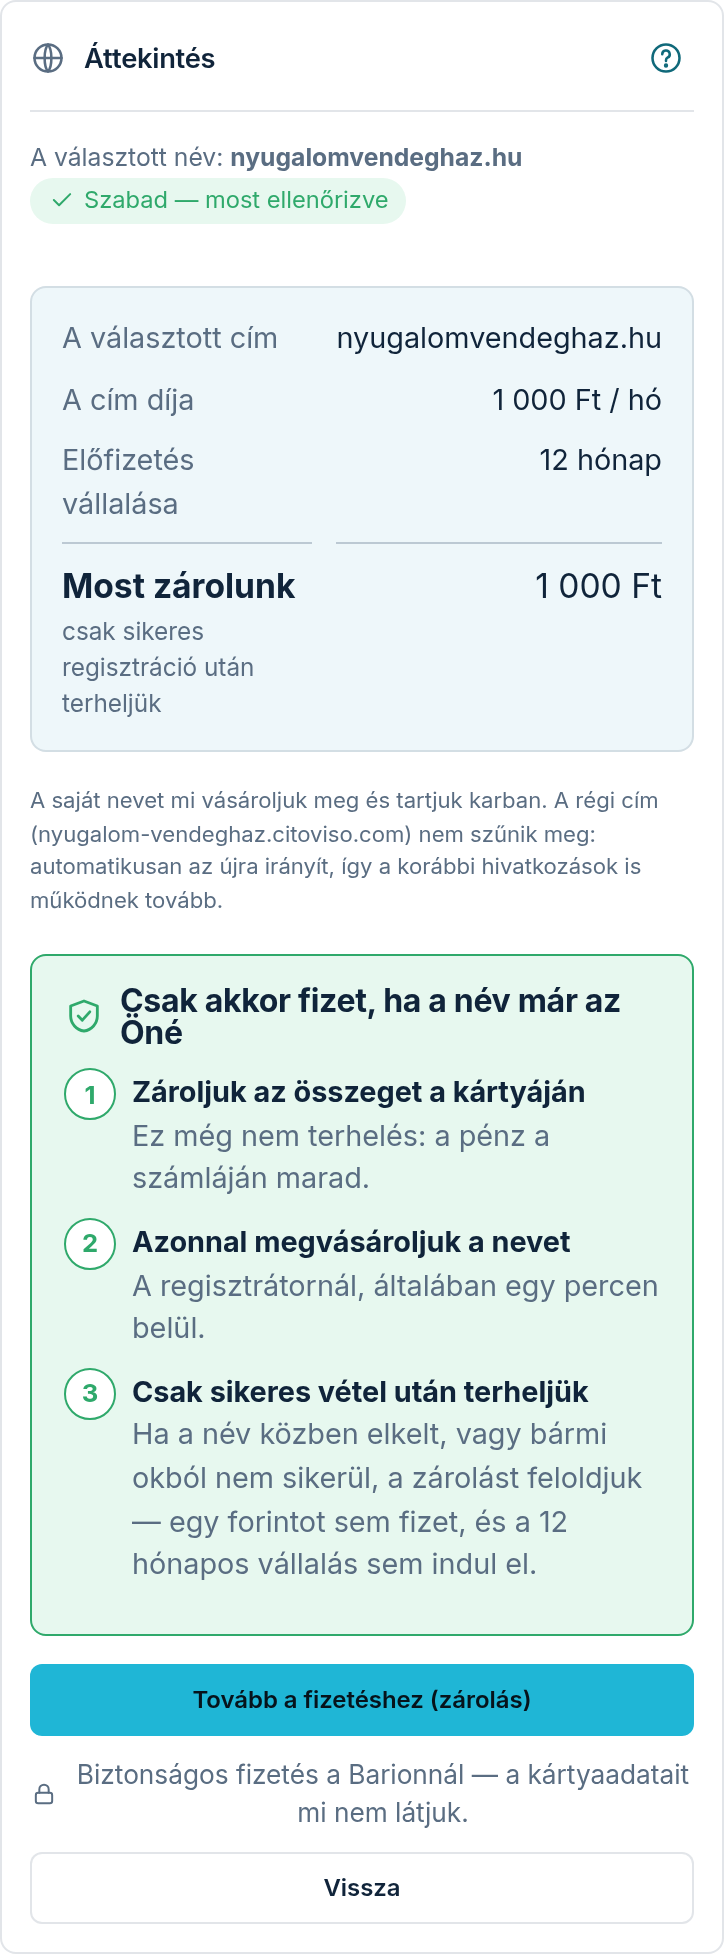
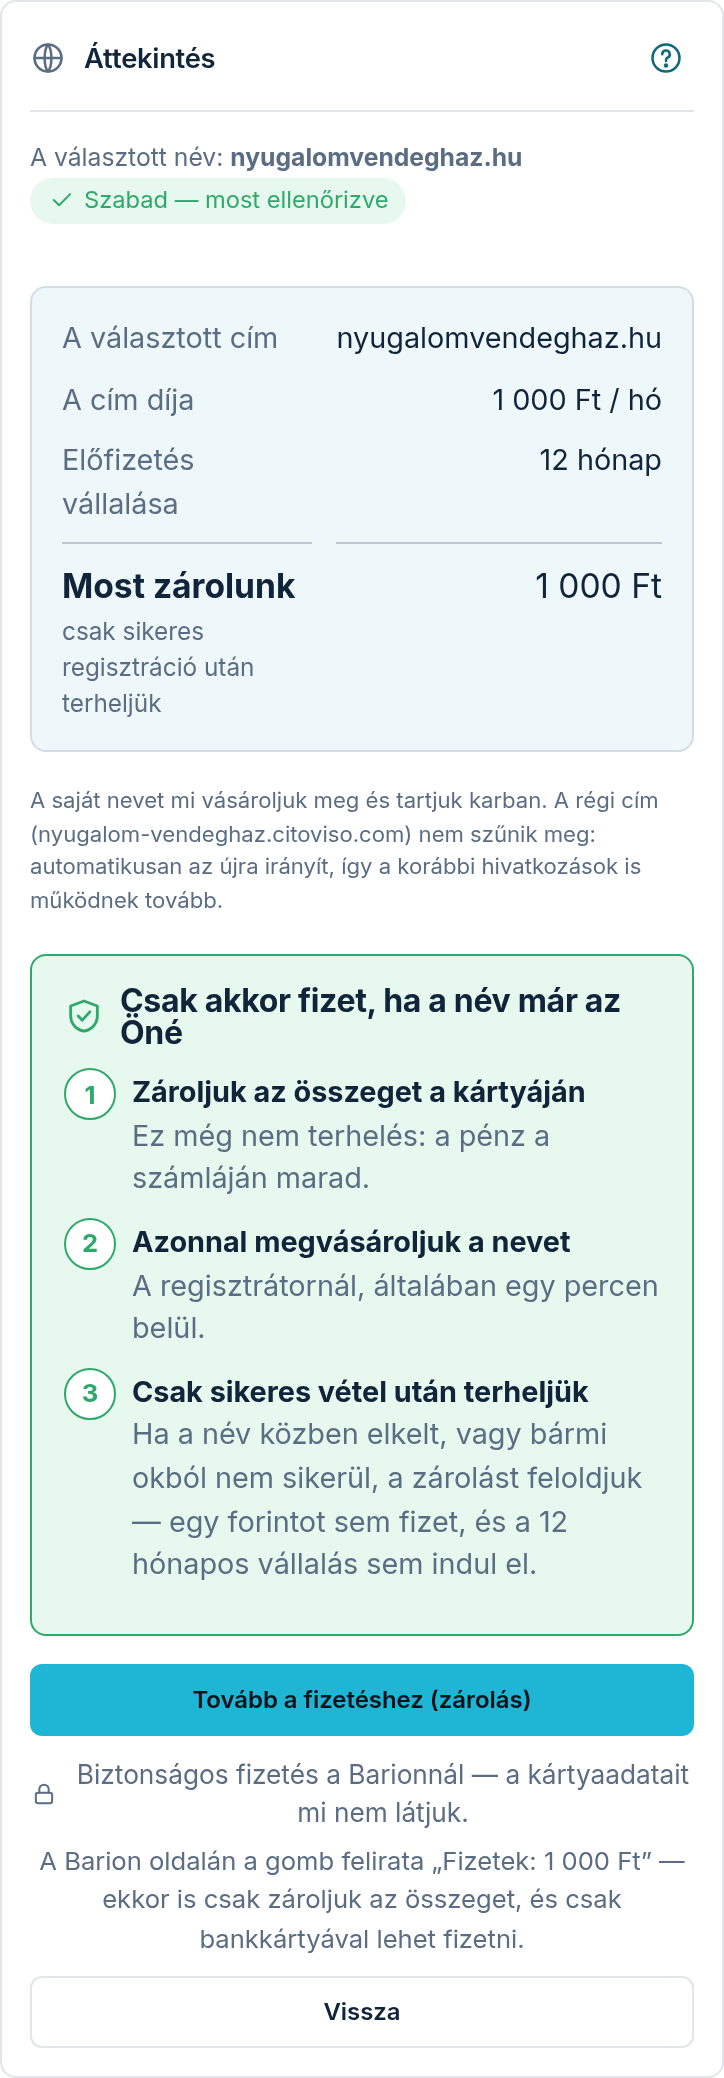
feat(webcím): „Fizetek” mondat + hiteles jelölő a lead-konfigurátorban is (ADR-0251 kiegészítés)
Tulaj: „Javítsuk ezeket is.”
- Áttekintés + súgó: a Barion gombja minden fizetésnél „Fizetek: …” — kimondjuk, hogy ekkor is csak
  zárolunk, és csak bankkártyával lehet fizetni (DelayedCapture-nél a Barion magától elrejti az
  Apple/Google Pay-t; a Wallet-ág a doksi szerint csak kártyával fizethet — sandboxban nem mérve).
- Lead-konfigurátor (első megrendelés): a javaslat- és ellenőrzés-végpont a regisztrátor hiteles
  válaszát adja; „Szabad” / „Foglalt” / „Nálunk nem igényelhető” (nem választható); nem ellenőrizhető
  névnél marad az „ellenőrizzük” (a megrendeléskor visszaigazoljuk). A zárolásos ígéret ott nem áll.
- configurator-price-check stub a „free” alakra; súgó-kép (review.png) újragyártva; ADR-0251 +
  session-jegyzet kiegészítve (élő dev-végigpróba: Capture → paid, számla OV-2026-68).

Claude-Session: https://claude.ai/code/session_01UQcf5HZnSyifUXNTEspmNv

diff --git a/assets/runtime/cit-configurator.js b/assets/runtime/cit-configurator.js
@@ -2468,11 +2468,19 @@
   // domain choice wiring (only when the manifest carries the domain step)
   if (DOM) {
     var dlist = panel.querySelector(".cit-cfg-dlist");
+    // ADR-0251: the verdict is the REGISTRAR's own answer now (was DNS+RDAP, which
+    // could never say "free" for .hu). "unavailable" = the registrar refuses it for
+    // another reason — not "foglalt", and not choosable either. "unknown" = the
+    // registrar did not answer; kept choosable with the order-time confirmation.
     var AVAIL_LABEL = {
-      probably_free: [tr("szabadnak tűnik"), "free"],
-      taken: [tr("foglalt"), "taken"],
+      free: [tr("Szabad"), "free"],
+      taken: [tr("Foglalt"), "taken"],
+      unavailable: [tr("Nálunk nem igényelhető"), "taken"],
       unknown: [tr("ellenőrizzük"), "unknown"],
     };
+    function blocked(av) {
+      return av === "taken" || av === "unavailable";
+    }
 
     function setDomainOpt(which) {
       panel.querySelectorAll(".cit-cfg-dopt").forEach(function (o) {
@@ -2527,7 +2535,7 @@
       var firstFree = null;
       suggestions.forEach(function (s) {
         var a = AVAIL_LABEL[s.availability] || AVAIL_LABEL.unknown;
-        var taken = s.availability === "taken";
+        var taken = blocked(s.availability);
         var node = el(
           '<div class="cit-cfg-dsug' +
             (taken ? " cit-cfg-dsug--taken" : "") +
@@ -2542,7 +2550,7 @@
             "</span></div>",
         );
         if (!taken) {
-          if (!firstFree && s.availability === "probably_free") firstFree = { node: node, domain: s.domain };
+          if (!firstFree && s.availability === "free") firstFree = { node: node, domain: s.domain };
           node.addEventListener("click", function () {
             pickSuggestion(node, s.domain);
             track("domain_pick", { domain: s.domain });
@@ -2560,7 +2568,7 @@
       dlist.appendChild(
         el(
           '<p class="cit-cfg-dlist__note">' +
-            tr("Előzetes ellenőrzés — a végleges elérhetőséget a megrendeléskor erősítjük meg. Más nevet is választhat a megrendeléskor.") +
+            tr("Az elérhetőséget közvetlenül a domain-regisztrátornál ellenőriztük, most. Más nevet is választhat a megrendeléskor.") +
             "</p>",
         ),
       );
@@ -2649,9 +2657,13 @@
               return;
             }
             ownIn.value = j.domain; // show the cleaned form we actually checked
-            if (j.availability === "taken") {
-              // Taken = we cannot register it, so it must not become the selection.
-              setOwnStatus("bad", j.domain + " — " + tr("foglalt"));
+            if (blocked(j.availability)) {
+              // Taken / not available here = we cannot register it, so it must not
+              // become the selection.
+              setOwnStatus(
+                "bad",
+                j.domain + " — " + (j.availability === "taken" ? tr("Foglalt") : tr("Nálunk nem igényelhető")),
+              );
               return;
             }
             clearSuggestionPick();
@@ -2661,7 +2673,7 @@
               "ok",
               j.domain +
                 " — " +
-                (j.availability === "probably_free" ? tr("szabadnak tűnik") : tr("ellenőrizzük")),
+                (j.availability === "free" ? tr("Szabad") : tr("ellenőrizzük")),
             );
             updateSummary();
             track("own_domain_pick", { domain: j.domain });
@@ -2687,7 +2699,7 @@
           checkOwn();
         }
       });
-      // Editing after a verdict invalidates it — a stale "szabadnak tűnik" standing
+      // Editing after a verdict invalidates it — a stale "Szabad" standing
       // under a name it was not about is worse than no verdict at all. If the checked
       // name was the current selection, the selection goes with it (the order would
       // otherwise carry a domain nobody checked).

diff --git a/src/console/server.ts b/src/console/server.ts
@@ -105,11 +105,8 @@ import { checkSubdomainAvailable, convertLead } from "../conversion/provision.js
 import { ownedSiteForArtifact, ownedSiteForProspectToken } from "../conversion/owned.js";
 import { injectConfigurator } from "../generator/configurator.js";
 import { injectPatternBadge, type PatternInputs } from "../generator/patternBadge.js";
-import {
-  checkAvailability,
-  normalizeCustomDomain,
-  suggestWithAvailability,
-} from "../domains.js";
+import { normalizeCustomDomain, suggestDomains } from "../domains.js";
+import { checkWebcimAvailability } from "../domains/availability.js";
 import { MODULE_CATALOG, missingRequiredModules, modulesForConversion } from "../modules.js";
 import { getDisabledModules, sampleDenyKeys, setDisabledModules } from "../moduleSales.js";
 import { renderSite } from "../engine/render.js";
@@ -2377,8 +2374,9 @@ async function handle(
   if (method === "GET" && cfgMatch) {
     return serveConfigure(res, cfgMatch[1]);
   }
-  // GET /configure/:artifactId/domains — custom-domain suggestions with a
-  // preliminary availability check (ADR-0020; cheap DNS+RDAP layer, no key).
+  // GET /configure/:artifactId/domains — custom-domain suggestions with the
+  // registrar's AUTHORITATIVE availability (ADR-0251; was the DNS+RDAP layer, which
+  // can never say "free" for .hu).
   const cfgDomMatch = /^\/configure\/([0-9a-f-]{36})\/domains$/i.exec(path);
   if (method === "GET" && cfgDomMatch) {
     const a = await db
@@ -2388,7 +2386,9 @@ async function handle(
       .where("mock_artifact.id", "=", cfgDomMatch[1])
       .executeTakeFirst();
     if (!a) return send(res, 404, JSON.stringify({ suggestions: [] }), "application/json");
-    const suggestions = await suggestWithAvailability(a.leadName);
+    const candidates = suggestDomains(a.leadName);
+    const verdicts = await Promise.all(candidates.map((d) => checkWebcimAvailability(d)));
+    const suggestions = candidates.map((domain, i) => ({ domain, availability: verdicts[i]! }));
     return send(res, 200, JSON.stringify({ suggestions }), "application/json");
   }
   // GET /configure/:artifactId/subdomain?label=... — preliminary availability of a buyer-chosen
@@ -2399,16 +2399,16 @@ async function handle(
     const r = await checkSubdomainAvailable(label);
     return send(res, 200, JSON.stringify({ ...r, host: r.normalized ? `${r.normalized}.citoviso.com` : "" }), "application/json");
   }
-  // GET /configure/:artifactId/domain-check?name=... — preliminary availability of a
-  // domain the buyer TYPED (when none of our suggestions appeals). Same cheap DNS+RDAP
-  // layer as the suggestions, so the verdict carries the same "preliminary" caveat.
+  // GET /configure/:artifactId/domain-check?name=... — availability of a domain the
+  // buyer TYPED (when none of our suggestions appeals). Same registrar verdict as the
+  // suggestions (ADR-0251).
   const cfgDomCheckMatch = /^\/configure\/([0-9a-f-]{36})\/domain-check$/i.exec(path);
   if (method === "GET" && cfgDomCheckMatch) {
     const norm = normalizeCustomDomain(url.searchParams.get("name") ?? "");
     if (!norm.ok) {
       return send(res, 200, JSON.stringify({ ok: false, reason: norm.reason }), "application/json");
     }
-    const availability = await checkAvailability(norm.domain!);
+    const availability = await checkWebcimAvailability(norm.domain!);
     return send(
       res,
       200,

diff --git a/src/server/adminViews.ts b/src/server/adminViews.ts
@@ -3511,6 +3511,10 @@ export function domainSection(d: DomainAdminData, st: DomainViewState, lang = "h
       `data-busy="${esc(T(lang, "Még egyszer ellenőrizzük a nevet…"))}">` +
       `${T(lang, "Tovább a fizetéshez (zárolás)")}</button>` +
       `<p class="adm-dlock">${ic("lock", 14)} ${T(lang, "Biztonságos fizetés a Barionnál — a kártyaadatait mi nem látjuk.")}</p>` +
+      // ADR-0251 kiegészítés: the Barion page reads „Fizetek: …” for EVERY payment type
+      // (its docs: the gateway UI is identical in all scenarios) — say so here, before
+      // the buyer meets it, so the hold is not mistaken for a charge.
+      `<p class="adm-dlock adm-dlock--note">${T(lang, "A Barion oldalán a gomb felirata „Fizetek: {amt}” — ekkor is csak zároljuk az összeget, és csak bankkártyával lehet fizetni.", { amt })}</p>` +
       back +
       `</div></div>` +
       // The server re-checks at the registrar before the pay-link (public.ts); the
@@ -3743,6 +3747,7 @@ const DOMAIN_STYLE =
   `.adm-dtl li b{display:block}.adm-dtl li span{color:var(--citui-muted)}` +
   `.adm-dlock{display:flex;gap:7px;align-items:center;justify-content:center;font-size:.82rem;color:var(--citui-muted);margin:10px 0 0;text-align:center}` +
   `.adm-dlock svg{flex:none}` +
+  `.adm-dlock--note{margin-top:4px;font-size:.8rem}` +
   `.adm-dprog__row.is-fail .adm-dprog__dot{background:var(--citui-bad);border-color:var(--citui-bad);color:var(--citui-white)}` +
   `.adm-dres{border-radius:var(--citui-radius);padding:13px 15px;margin:12px 0;font-size:.92rem}` +
   `.adm-dres b{display:block;margin-bottom:3px}` +

diff --git a/_planning/memory/2026-09-27_webcim_hiteles_elerhetoseg_kartyazarolas.md b/_planning/memory/2026-09-27_webcim_hiteles_elerhetoseg_kartyazarolas.md
@@ -38,8 +38,15 @@ src/ui/icons.ts · src/db/schema.ts · migrations/0077_payment_domain_reservatio
 scripts/{domain-provision-check,kb-shot,resume-domains}.mts · kb/entries/admin-domain/ ·
 assets/design-refs/console/{domain,domain-zarolas}/ · ADR-0078 (módosítás-jel) · ADR-0251
 
+## 2. kör (tulaj: „Javítsuk ezeket is”)
+„Fizetek” mondat az Áttekintésen + a súgóban; a Wallet-ág megfigyelése (Apple/Google Pay DelayedCapture-nél
+rejtve, a Wallet marad — a doksi szerint csak kártya); a lead-konfigurátor jelölője hiteles; élő dev-próba siker.
+Menet közben két idegen kapu billegett (console-contrast, outreach-link-live: a lead-lap ~31 s) — tulaj-
+engedéllyel 90 s-os korlát; a gyökérokot a „Lead-lap lassú” szál javította (ADR-0250). A photo-normalize
+iker-javítás: a másik szálé maradt.
+
 ## Nyitott
 - Élő végigpróba a dev-en a tulaj telefonján (sandbox-kártya: 4444 8888 8888 5559). A bukás-ág egy
   „taken”-t tartalmazó szabad névvel próbálható ki (a dev regisztrátor mock).
-- Éles POS-on a DelayedCapture engedélyezettsége. A lead-konfigurátor jelölője még a régi (külön kör).
+- Éles POS-on a DelayedCapture engedélyezettsége (élesi írás → külön engedély). A Wallet-ág sandbox-fiókkal.
 - Nincs élesítve (a nagy deployjal megy).

diff --git a/kb/entries/admin-domain/entry.hu.md b/kb/entries/admin-domain/entry.hu.md
@@ -67,9 +67,11 @@ megvásároljuk a nevet, és **csak a sikeres vétel után terheljük** a kárty
 közben elkelt, vagy bármi okból nem sikerül megvenni, a zárolást feloldjuk: egy forintot
 sem fizet, és az előfizetési vállalás sem indul el.
 
-Két dolgot érdemes tudnia a zárolásról. A bankja az alkalmazásában **függőben lévő
-tételként** mutathatja — ez még nem levonás. És mivel valódi kártyazárolás, **csak
-bankkártyával** lehet fizetni (Barion-egyenleggel nem).
+Három dolgot érdemes tudnia a zárolásról. A Barion fizetési oldalán a gomb felirata
+**„Fizetek: …”** — a Barion minden fizetésnél ugyanazt a gombot mutatja, ekkor is csak
+zároljuk az összeget. A bankja az alkalmazásában **függőben lévő tételként** mutathatja —
+ez még nem levonás. És mivel valódi kártyazárolás, **csak bankkártyával** lehet fizetni
+(Barion-egyenleggel, Apple Pay-jel vagy Google Pay-jel nem).
 
 **3. lépés — Kész.** A fülön lépésről lépésre követheti, hol tart: összeg zárolva →
 megvásároltuk a nevet → terheltük a kártyáját (a számlát e-mailben küldjük) → beállítjuk
